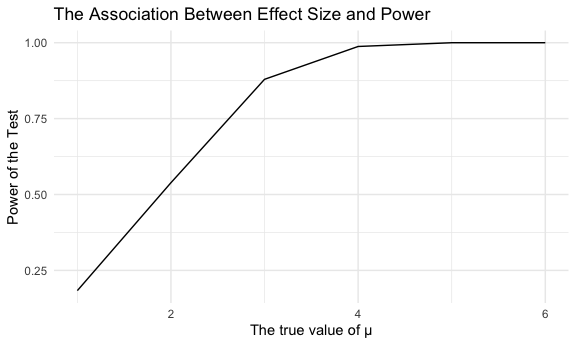
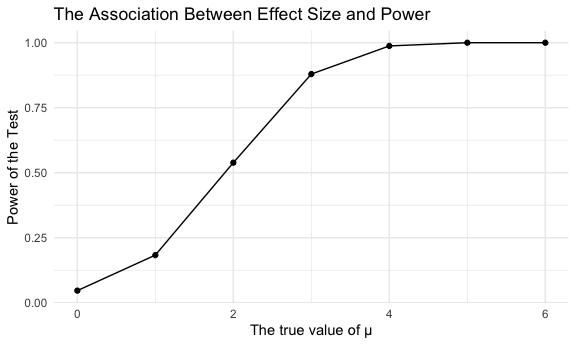
making plots and descriptions

diff --git a/p8105_hw5_yz4434.md b/p8105_hw5_yz4434.md
@@ -210,8 +210,6 @@ sim_df = function(mu,n=30,sigma=5) {
     broom::tidy() |> 
     select(estimate, p.value)
 }
-
-sim_results_df= map(1:5000,\(i) sim_df(mu=0))|> bind_rows()
 ```
 
 Making plots with conditions of μ={1,2,3,4,5,6}
@@ -219,7 +217,7 @@ Making plots with conditions of μ={1,2,3,4,5,6}
 ``` r
 result_df = 
   expand_grid(
-    mu = c(1:6),
+    mu = c(0:6),
     iter = 1:5000
   ) |> 
   mutate(estimate = map(mu, sim_df)) |> unnest(estimate)
@@ -234,7 +232,7 @@ plot_reject=result_df |>
   group_by(mu) |> 
   mutate(reject_null= as.numeric(p.value<0.05)) |> 
   summarise(power = mean(reject_null)) |>
-  ggplot(aes(x=mu, y=power))+ geom_line()+
+  ggplot(aes(x=mu, y=power))+ geom_line()+geom_point()+
       labs(x = "The true value of μ",
        y= "Power of the Test",
        title = "The Association Between Effect Size and Power")
@@ -245,8 +243,53 @@ plot_reject
 <img src="p8105_hw5_yz4434_files/figure-gfm/unnamed-chunk-7-1.png" width="90%" />
 
 Description: This plot indicates the association between the true value
-of μ and power of the test. The effect size shows the difference between
-the true means of μ and the means of proportional times that null
-hypothesis was rejected. In this case, as the increasing true value of μ
-from 1 to 6, the power is increasing until to reach the null, which
-means that it is more likely to reject the false hypothesis.
+of μ and power of the test, which is positive correlation. The effect
+size shows the difference between the true means of μ and the means of
+proportional times that null hypothesis was rejected. In this case, as
+the increasing true value of μ from 0 to 6, the power is increasing
+until to reach the null, which means that it is more likely to reject
+the false hypothesis. This pattern shows that larger
+
+Make a plot showing the average estimate of μ̂
+
+``` r
+plot1 = result_df |> 
+  group_by(mu) |> 
+  summarise(average = mean(estimate)) |>
+    mutate(case="case1")
+
+plot2 = result_df |> 
+  filter(p.value<0.05) |> 
+  group_by(mu) |> 
+  summarise(average = mean(estimate)) |> 
+      mutate(case="case2")
+
+# Combine these two plots
+plots=bind_rows(plot1, plot2) |> 
+    ggplot(aes(x = mu, y = average, color = case))+geom_line()+
+    geom_point()+
+        labs(x = "The true value of μ",
+       y= "Average Estimate of μ̂",
+       title = "Average Estimate of μ̂ ")
+
+plots
+```
+
+<img src="p8105_hw5_yz4434_files/figure-gfm/unnamed-chunk-8-1.png" width="90%" />
+
+Is the sample average of μ̂ across tests for which the null is rejected
+approximately equal to the true value of μ? Why or why not?
+
+Description: the purple line indicates the association between the
+average estimate of μ̂ and the true value of mu. The yellow line shows
+the average estimate of μ̂ when the null hypothesis was rejected.The
+average of sample estimates across tests where the null hypothesis was
+rejected tend to deviate from the actual true mean. This situation
+occurs is that the rejection of null hypothesis would impact and lead to
+overestimate the true mean when rejecting the null. the plot shows that
+even when the null is rejected, the average estimate of mu is still very
+close to the true value of μ. This suggests that the sample average of
+mu across tests where the null is rejected is approximately equal to the
+true value of μ. This might occur if the tests have high power and the
+sample size is large, leading to rejections even for small deviations
+from the null.
